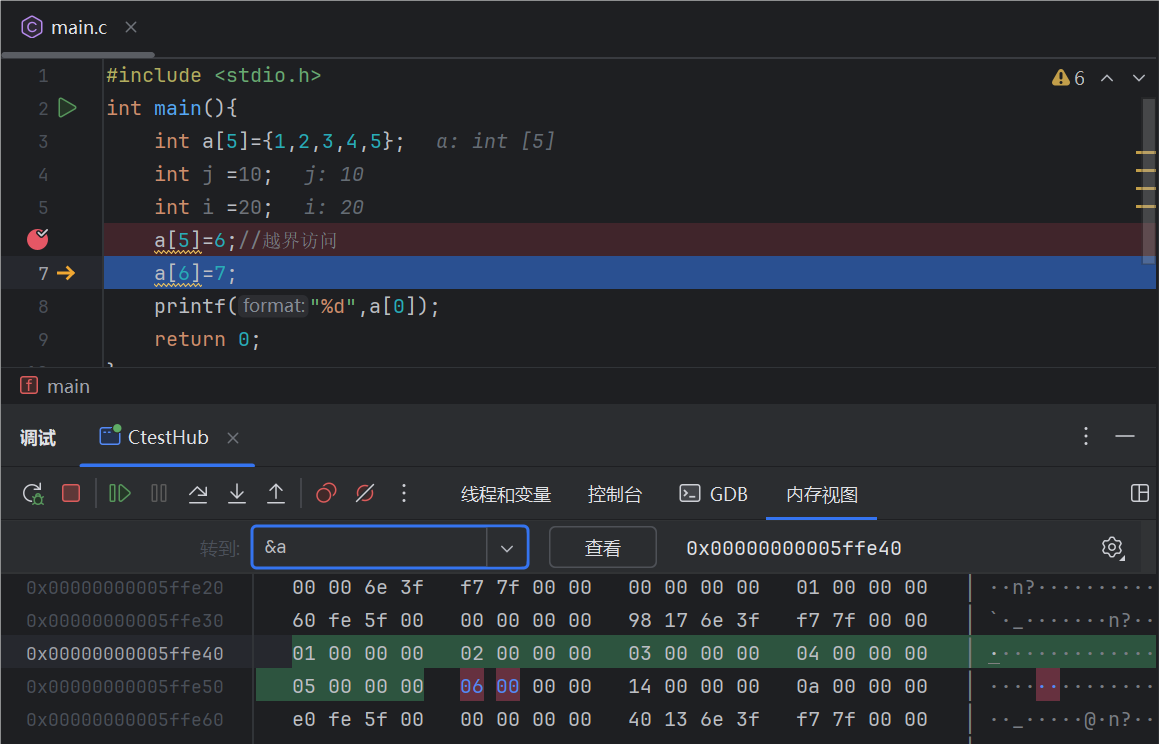
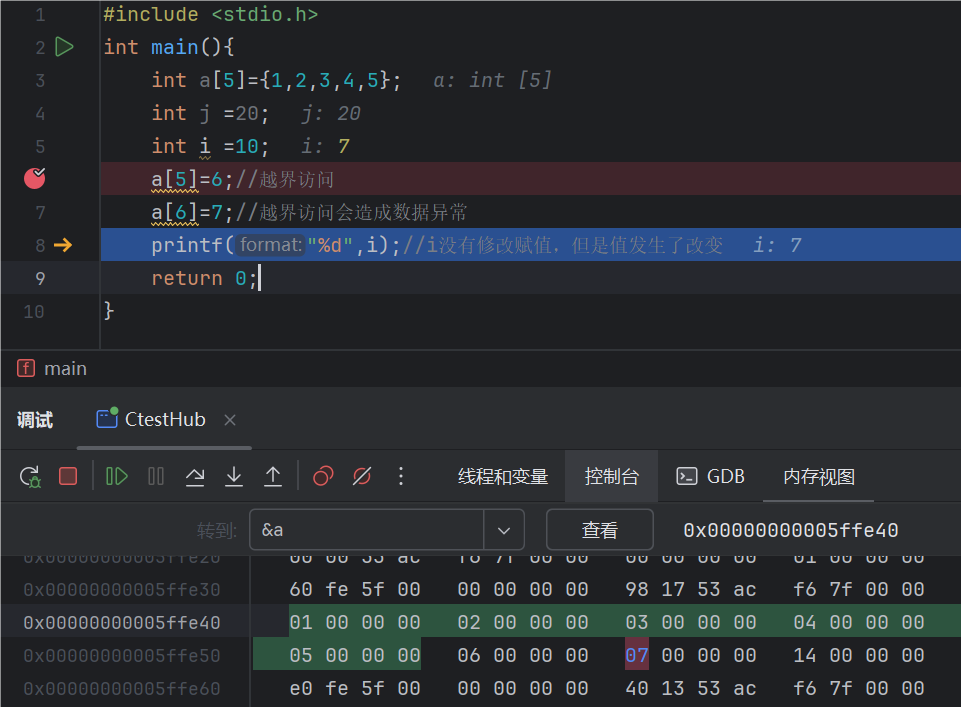
vault backup: 2024-09-30 09:47:18

diff --git a/C语言/5. 一维数组与字符串数组.md b/C语言/5. 一维数组与字符串数组.md
@@ -38,9 +38,26 @@ int a[10]={1,2,3,4,5,6,7,8,9}
 
 ### 5.2.1 数组的访问越界
 
+~~~c
+#include <stdio.h>  
+int main(){  
+    int a[5]={1,2,3,4,5};  
+    int j =20;  
+    int i =10;  
+    a[5]=6;//越界访问  
+    a[6]=7;//越界访问会造成数据异常  
+    printf("%d",i);//i没有修改赋值，但是值发生了改变  
+    return 0;  
+}
+~~~
+
 ![[访问越界.png]]
 
-这里的`a[5]`已经超出了数组a的范围，把`06 00 00 00`放入了他不应该存在的位置，若再下一步到`a[6]`，就会把`14 00 00 00`即`i`的内存空间所占据，修改为`07 00 00 00`，printf输出的结果将是7。（只有再书写程序的时候人工的确保不会发生这些错误）
+这里的`a[5]`已经超出了数组a的范围，把`06 00 00 00`放入了他不应该存在的位置，若再下一步到`a[6]`，就会把`14 00 00 00`即`i`的内存空间所占据，修改为`07 00 00 00`，printf输出的结果将是7。（只有在书写程序的时候人工的确保不会发生这些错误，编译器不会检查数组下标的引用）
+
+### 5.2.2 数组的传递
+
+
 
 ## 5.3 字符数组与scanf读取字符串
 
